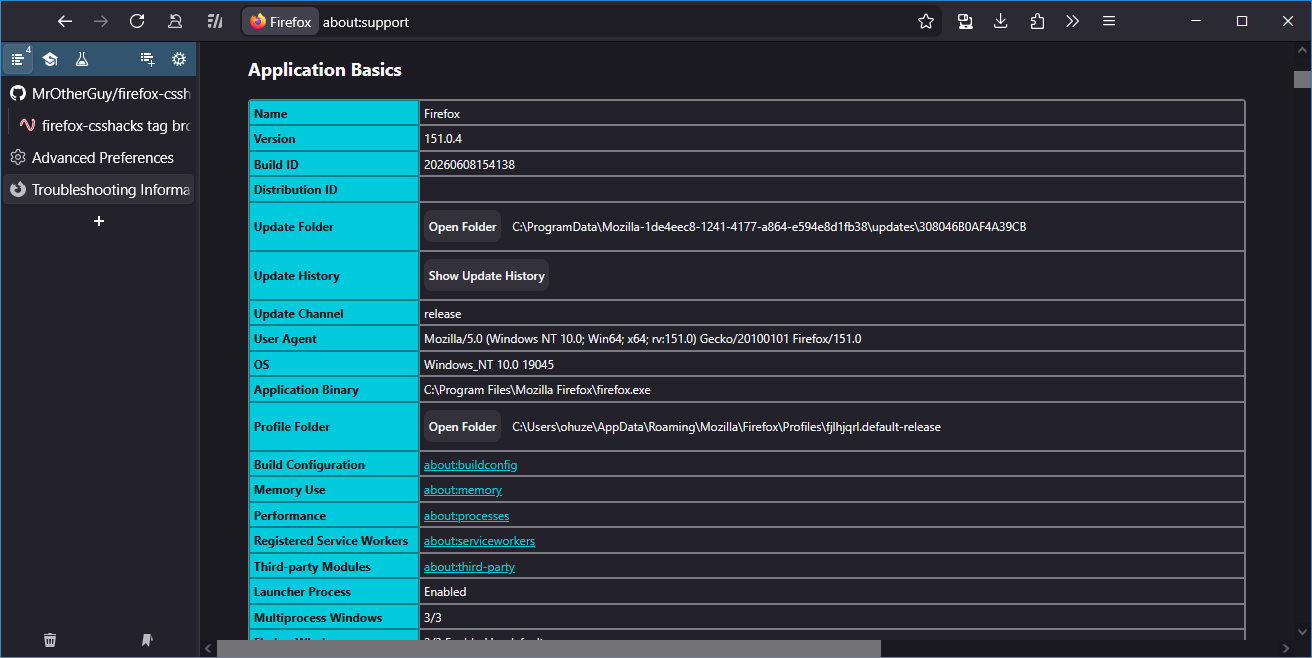
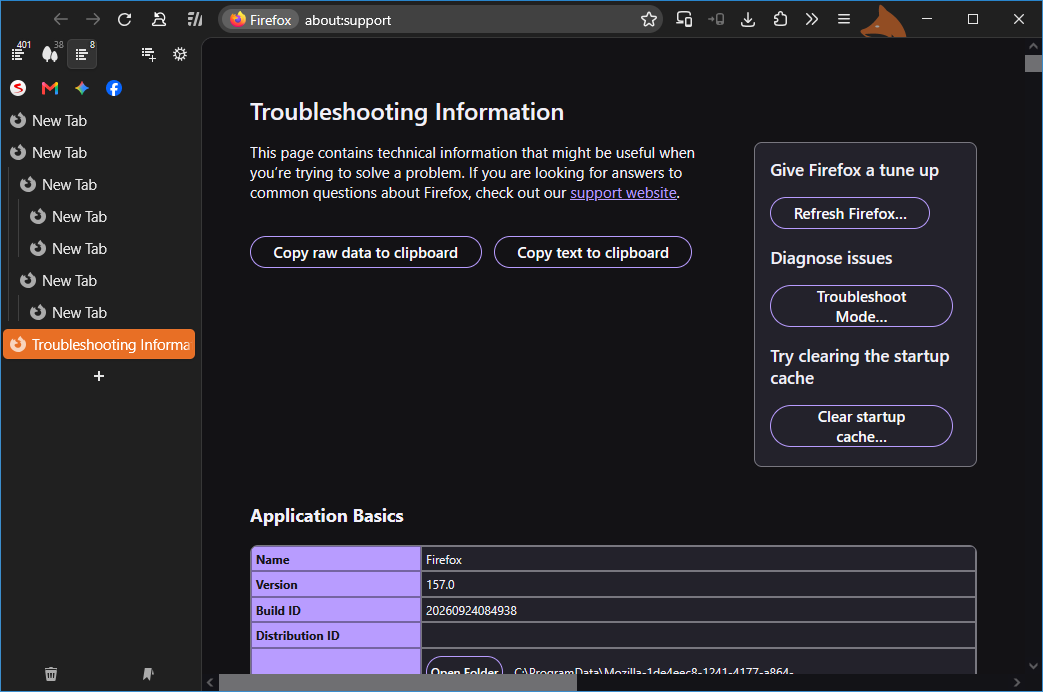
Themes update

diff --git a/userChrome.css b/userChrome.css
@@ -7,6 +7,15 @@
   display: none !important;
 }
 
+/* Remove sidebar padding and border */
+#sidebar-box,
+#sidebar {
+  /* margin: 0 !important; */
+  padding: 0 !important;
+  border-radius: 0 !important;
+  border: none !important;
+}
+
 /* Reduce minimum width of the sidebar */
 #sidebar-box {
   min-width: 70px !important;

diff --git a/README.md b/README.md
@@ -6,11 +6,14 @@ How it looks like on Windows 10:
 - Untick `Show sidebar`
 
 # Extensions
-- Sidebery
-- Undo close tab
-- I still don't care about cookies
-- Video Speed Controller
-- Bypass Google Redirect Notice
+- [Sidebery](https://addons.mozilla.org/en-US/firefox/addon/sidebery/)
+- [Undo close tab](https://addons.mozilla.org/en-US/firefox/addon/undoclosetabbutton/)
+- [I still don't care about cookies](https://addons.mozilla.org/en-US/firefox/addon/istilldontcareaboutcookies/)
+- [Video Speed Controller](https://addons.mozilla.org/en-US/firefox/addon/videospeed/)
+- [Bypass Google Redirect Notice](https://addons.mozilla.org/en-US/firefox/addon/bypass-google-redirect-notice/)
+
+# Themes
+- [Simple style fox 2](https://addons.mozilla.org/en-US/firefox/addon/simple-style-fox-2/)
 
 # about:config mods
 Type `about:congig` to address bar.
